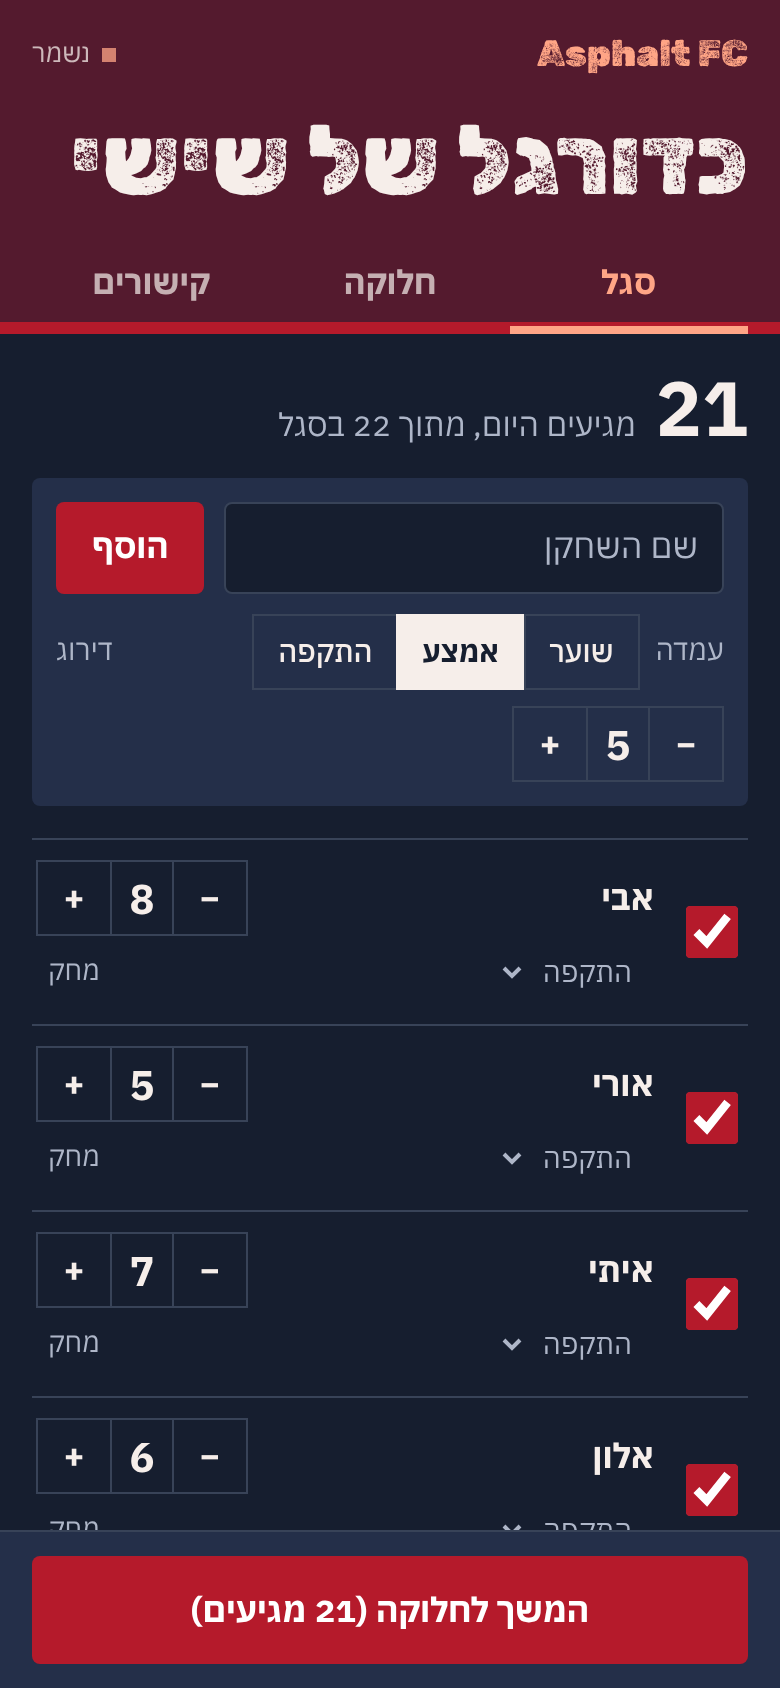
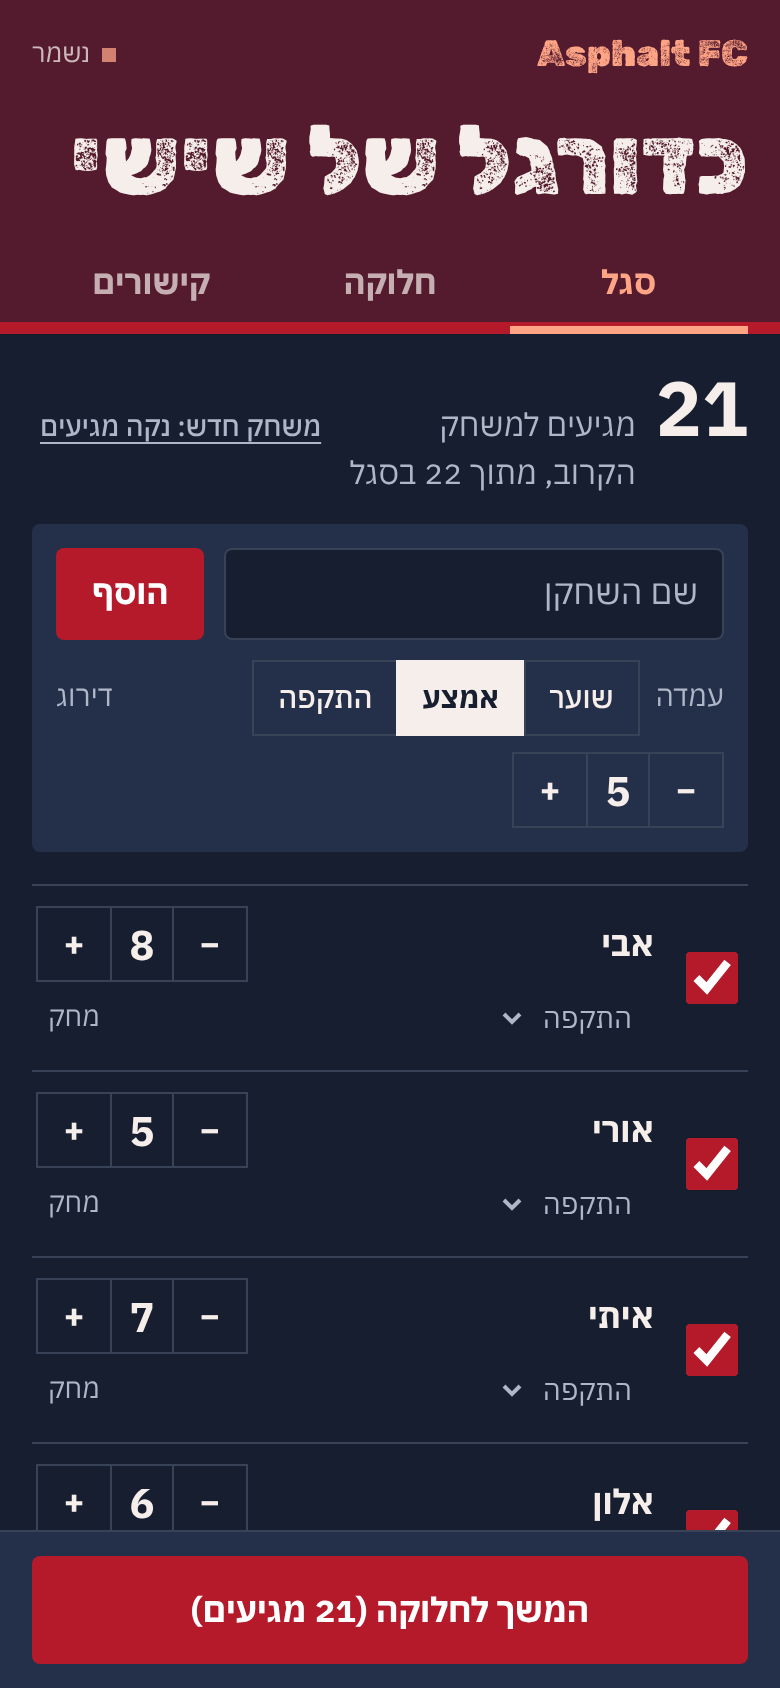
Say "next game" instead of "today"
Games are not always on the same day, so the attendance wording now refers
to the next game on the player link and the squad tab.

diff --git a/web/src/main.js b/web/src/main.js
@@ -271,8 +271,8 @@ function renderManager() {
 function rosterView() {
   const S = M.S;
   const n = here().length;
-  let h = `<div class="summary"><span class="big num">${n}</span><small>מגיעים היום, מתוך ${S.players.length} בסגל</small>
-    ${n ? `<button type="button" class="linkbtn push ${M.pendingReset ? 'confirm' : ''}" data-act="reset-here">${M.pendingReset ? 'לנקות את כולם? לחץ שוב' : 'שבוע חדש: נקה מגיעים'}</button>` : ''}</div>
+  let h = `<div class="summary"><span class="big num">${n}</span><small>מגיעים למשחק הקרוב, מתוך ${S.players.length} בסגל</small>
+    ${n ? `<button type="button" class="linkbtn push ${M.pendingReset ? 'confirm' : ''}" data-act="reset-here">${M.pendingReset ? 'לנקות את כולם? לחץ שוב' : 'משחק חדש: נקה מגיעים'}</button>` : ''}</div>
     ${signupsHtml()}
     <form class="add" id="addForm" autocomplete="off">
       <input type="text" id="newName" placeholder="שם השחקן" aria-label="שם השחקן" maxlength="30" required>
@@ -285,7 +285,7 @@ function rosterView() {
   if (!S.players.length) return h + '<div class="empty"><h2>הסגל ריק</h2><p>הוסף את השחקנים הקבועים פעם אחת, והם יישמרו למשחקים הבאים.</p></div>';
   const list = [...S.players].sort((a, b) => (b.here - a.here) || a.name.localeCompare(b.name, 'he'));
   h += '<ul class="roster">' + list.map((p) => `<li class="${p.here ? '' : 'away'}">
-      <input type="checkbox" class="here" data-here="${p.id}" ${p.here ? 'checked' : ''} aria-label="${esc(p.name)} מגיע היום">
+      <input type="checkbox" class="here" data-here="${p.id}" ${p.here ? 'checked' : ''} aria-label="${esc(p.name)} מגיע למשחק הקרוב">
       <span class="name">${esc(p.name)}</span>
       <span class="pos"><select data-pos="${p.id}" aria-label="עמדה של ${esc(p.name)}">${Object.entries(POS).map(([k, v]) => `<option value="${k}" ${p.pos === k ? 'selected' : ''}>${v}</option>`).join('')}</select></span>
       <span class="rate"><button type="button" data-rate="${p.id}" data-d="-1" aria-label="הורד דירוג ל${esc(p.name)}" ${p.rating <= 1 ? 'disabled' : ''}>−</button><output class="num">${p.rating}</output><button type="button" data-rate="${p.id}" data-d="1" aria-label="העלה דירוג ל${esc(p.name)}" ${p.rating >= 10 ? 'disabled' : ''}>+</button></span>
@@ -299,7 +299,7 @@ function signupsHtml() {
   if (!M.signups.length) return '';
   return `<section class="signups" aria-label="נרשמו דרך הקישור">
     <div class="signups-head"><h2>נרשמו דרך הקישור</h2><span class="num">${M.signups.length}</span></div>
-    <p>שחקנים חדשים שנרשמו בעצמם. תן דירוג והוסף לסגל, הם יסומנו כמגיעים היום.</p>
+    <p>שחקנים חדשים שנרשמו בעצמם. תן דירוג והוסף לסגל, הם יסומנו כמגיעים למשחק הקרוב.</p>
     <ul>${M.signups.map((x) => {
       const r = M.sigRate[x.id] || 5;
       return `<li>
@@ -534,8 +534,8 @@ async function pollPlayer() {
   }
 }
 
-/** Everyone coming today: squad players marked as coming, plus sign-ups still waiting for the manager. */
-function comingToday() {
+/** Everyone coming to the next game: squad players marked as coming, plus sign-ups still waiting for the manager. */
+function comingNext() {
   const { state, signups } = V.data;
   const out = [];
   const seen = new Set();
@@ -550,7 +550,7 @@ function comingToday() {
 function signupHtml(compact) {
   const me = V.me;
   const isMe = (p) => me && norm(p.name) === norm(me.name);
-  const list = comingToday();
+  const list = comingNext();
   const listed = me && list.some(isMe);
   let h = '<section class="signup" aria-label="הרשמה למשחק">';
   if (me && listed && !V.editing) {
@@ -571,7 +571,7 @@ function signupHtml(compact) {
       </form>`;
   }
   if (list.length) {
-    h += `<div class="coming"><h3>מגיעים היום <span class="num">${list.length}</span></h3><ul>${list.map((p) => `<li class="${isMe(p) ? 'me' : ''}"><span class="tag ${p.pos === 'gk' ? 'gk' : ''}">${POS[p.pos] || ''}</span><span>${esc(p.name)}</span></li>`).join('')}</ul></div>`;
+    h += `<div class="coming"><h3>מגיעים למשחק הקרוב <span class="num">${list.length}</span></h3><ul>${list.map((p) => `<li class="${isMe(p) ? 'me' : ''}"><span class="tag ${p.pos === 'gk' ? 'gk' : ''}">${POS[p.pos] || ''}</span><span>${esc(p.name)}</span></li>`).join('')}</ul></div>`;
   }
   return h + '</section>';
 }
@@ -586,7 +586,7 @@ function renderPlayer() {
   let body;
   if (!S.result) body = signupHtml(false);
   else {
-    body = '<h2 class="player-title">הקבוצות להיום</h2>';
+    body = '<h2 class="player-title">הקבוצות למשחק הקרוב</h2>';
     if (S.result.draw) body += drawHtml(S, {}) + (S.game && S.game.started ? clockHtml(S, false) : '');
     body += teamsHtml(S, { ratings: false }) + signupHtml(true);
   }

diff --git a/README.md b/README.md
@@ -38,7 +38,7 @@
   <tr>
     <td align="center"><img src="docs/screenshots/player.png" width="240" alt="Player sign-up"><br><sub><b>Sign-up</b>: players add themselves with a name and a position</sub></td>
     <td align="center"><img src="docs/screenshots/signups.png" width="240" alt="Rate new sign-ups"><br><sub><b>Sign-ups</b>: the manager only gives a rating</sub></td>
-    <td align="center"><img src="docs/screenshots/squad.png" width="240" alt="Squad"><br><sub><b>Squad</b>: name, position, rating 1–10, who's here today</sub></td>
+    <td align="center"><img src="docs/screenshots/squad.png" width="240" alt="Squad"><br><sub><b>Squad</b>: name, position, rating 1–10, who's coming to the next game</sub></td>
   </tr>
   <tr>
     <td align="center"><img src="docs/screenshots/split.png" width="240" alt="Fair split"><br><sub><b>Split</b>: 3–10 teams, any team size, balanced by rating</sub></td>
@@ -55,8 +55,8 @@
 ## Features
 
 - **No accounts.** Create a group with a name. You get a private manager link and a separate link for players, where they sign up by name only.
-- **Players sign themselves up.** The player link opens with a short form: name and position (goalkeeper, midfield, attack). Everyone sees who is coming today. A regular who signs up is simply marked as coming; a new name waits for the manager, who only has to give a rating and tap add.
-- **Squad that remembers.** Add each regular once with a position (goalkeeper, midfield, attack) and a 1–10 rating. Each week just tick who showed up.
+- **Players sign themselves up.** The player link opens with a short form: name and position (goalkeeper, midfield, attack). Everyone sees who is coming to the next game. A regular who signs up is simply marked as coming; a new name waits for the manager, who only has to give a rating and tap add.
+- **Squad that remembers.** Add each regular once with a position (goalkeeper, midfield, attack) and a 1–10 rating. Before each game, players sign up or you tick who is coming.
 - **Fair split.** Pick 3 to 10 teams and players per team. Every full team gets a goalkeeper, positions are mixed, and averages are balanced. Leftover players form the waiting team (קבוצה מזמינה).
 - **Opening draw.** One tap draws the two teams that kick off. The rest queue in random order, with the waiting team last.
 - **Match clock.** Set the length (8 minutes by default), start, pause for a ball over the fence or a penalty argument, resume or restart. When teams are waiting, add extra time one minute at a time. A whistle sounds when time is up, and the screen stays awake while the clock runs.
